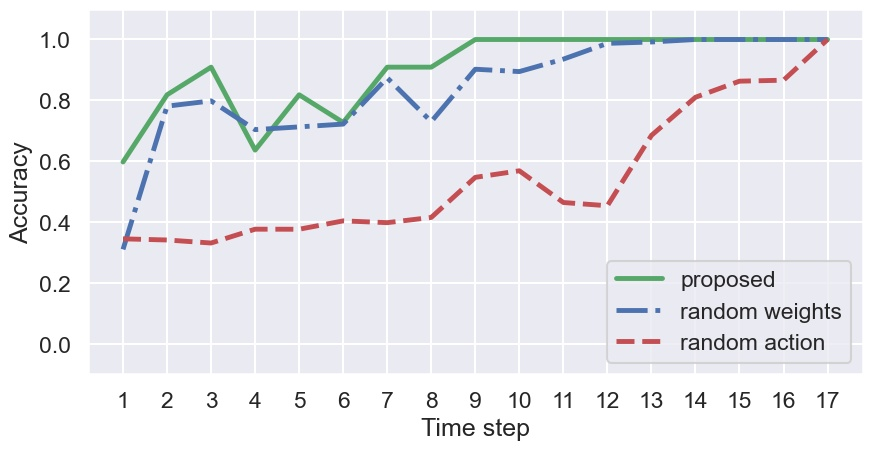
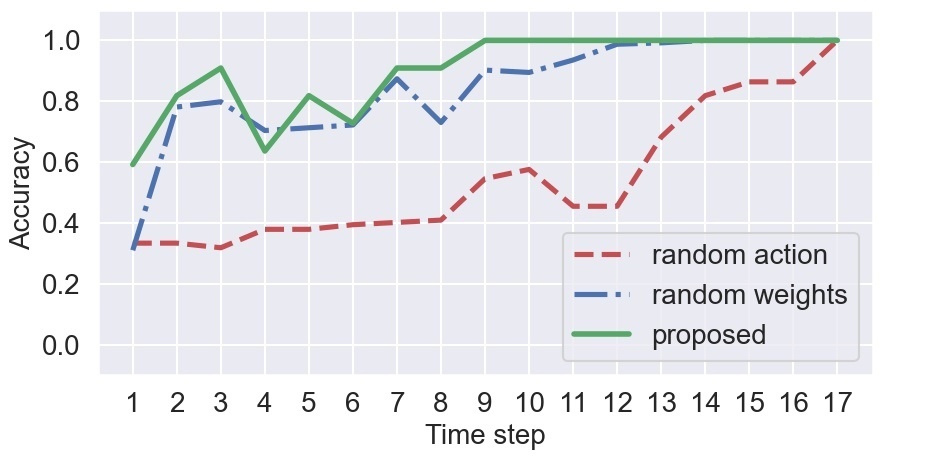
icra dump

diff --git a/src/experiments.py b/src/experiments.py
@@ -77,15 +77,15 @@ optim = O.ExpSga(lr=O.linear_decay(lr0=0.6))
 rank_features = False
 scale_weights = False
 
-visualize = False
+visualize = True
 
-run_proposed = False
-run_random_baseline = True
+run_proposed = True
+run_random_baseline = False
 
 match_scores, predict_scores, random_scores = [], [], []
 
 # loop over all users
-for i in range(len(canonical_demos)):
+for i in range(11):
 
     print("=======================")
     print("User:", i)
@@ -163,11 +163,11 @@ for i in range(len(canonical_demos)):
         # score for predicting the action based on transferred rewards based on abstract features
         qf_transfer, _, _ = value_iteration(X.states, X.actions, X.transition, transfer_rewards_abstract, X.terminal_idx)
         predict_sequence, predict_score = predict_trajectory(qf_transfer, X.states, complex_user_demo, X.transition,
-                                                             sensitivity=0.005, consider_options=True)
+                                                             sensitivity=0.0, consider_options=False)
         predict_scores.append(predict_score)
 
         if visualize:
-            visualize_rel_actions(X, complex_user_demo[0], i, "complex", predict_sequence)
+            visualize_rel_actions(X, complex_user_demo[0], i, "actual", predict_sequence)
 
     # -------------------------------- Training: Learn weights from complex demo ------------------------------------ #
 
@@ -186,29 +186,30 @@ for i in range(len(canonical_demos)):
         print("Assuming random weights ...")
         random_score = []
         for _ in range(100):
-            # score for selecting actions based on random weights
-            random_weights = np.random.rand(6)  # np.random.shuffle(canonical_weights_abstract)
-            random_rewards_abstract = complex_abstract_features.dot(random_weights)
-            qf_random, _, _ = value_iteration(X.states, X.actions, X.transition, random_rewards_abstract, X.terminal_idx)
-            predict_sequence, r_score = predict_trajectory(qf_random, X.states, complex_user_demo, X.transition,
-                                                           sensitivity=0.005, consider_options=True)
+            # # score for selecting actions based on random weights
+            # random_weights = np.random.rand(6)  # np.random.shuffle(canonical_weights_abstract)
+            # random_rewards_abstract = complex_abstract_features.dot(random_weights)
+            # qf_random, _, _ = value_iteration(X.states, X.actions, X.transition, random_rewards_abstract, X.terminal_idx)
+            # predict_sequence, r_score = predict_trajectory(qf_random, X.states, complex_user_demo, X.transition,
+            #                                                sensitivity=0.0, consider_options=False)
 
             # score for randomly selecting an action
-            # _, r_score = random_trajectory(X.states, complex_user_demo, X.transition)
+            predict_sequence, r_score = random_trajectory(X.states, complex_user_demo, X.transition)
 
             random_score.append(r_score)
 
         random_score = np.mean(random_score, axis=0)
         random_scores.append(random_score)
 
-    # print("\n")
-    # print("Complex task:")
-    # print("     demonstration -", complex_user_demo)
+    print("\n")
+    print("Complex task:")
+    print("   demonstration -", complex_user_demo)
+    print("     predictions -", predict_sequence)
 
 # -------------------------------------------------- Save results --------------------------------------------------- #
 if run_proposed:
-    np.savetxt("results_final/predict11_normalized_features_random_weights_options_s005.csv", predict_scores)
+    np.savetxt("results_final/predict11_normalized_features.csv", predict_scores)
 
 if run_random_baseline:
-    np.savetxt("results_final/random11_normalized_features_random_weights_new.csv", random_scores)
+    np.savetxt("results_final/random11_normalized_features_random_actions_new.csv", random_scores)
 

diff --git a/src/plot_figures.py b/src/plot_figures.py
@@ -6,8 +6,8 @@ from scipy import stats
 
 predict_scores = np.loadtxt("results_final/predict11_normalized_features.csv")
 random1_scores = np.loadtxt("results_final/random11_normalized_features_random_weights.csv")
-random2_scores = np.loadtxt("results_final/random11_normalized_features_random_actions.csv")
-uniform_scores = np.loadtxt("results_final/predict11_normalized_features_random_weights_options_s005.csv")
+random2_scores = np.loadtxt("results_final/random11_normalized_features_random_actions_new.csv")
+uniform_scores = np.loadtxt("results_final/random11_normalized_features_random_actions_new.csv")
 
 n_users, n_steps = np.shape(predict_scores)
 
@@ -30,18 +30,19 @@ steps = range(1, len(predict_accuracy)+1)
 # plotting
 sns.set(style="darkgrid", context="talk")
 plt.figure(figsize=(10, 5))
-plt.plot(steps, predict_accuracy, 'g', linewidth=3.5)
-plt.plot(steps, random1_accuracy, 'b-.', linewidth=3.5)
-plt.plot(steps, random2_accuracy, 'r--', linewidth=3.5)
-plt.plot(steps, uniform_accuracy, 'y:', linewidth=3.5)
+plt.plot(steps, random2_accuracy, 'r--', linewidth=3.7)
+plt.plot(steps, random1_accuracy, 'b-.', linewidth=3.7)
+plt.plot(steps, predict_accuracy, 'g', linewidth=4.0)
+# plt.plot(steps, uniform_accuracy, 'y:', linewidth=4)
 plt.ylim(-0.1, 1.1)
-plt.xticks(steps)
-plt.xlabel("Time step")
-plt.ylabel("Accuracy")
+plt.xticks(steps, fontsize=20)
+plt.yticks(fontsize=20)
+plt.xlabel("Time step", fontsize=20)
+plt.ylabel("Accuracy", fontsize=20)
 plt.gcf().subplots_adjust(bottom=0.15)
-plt.legend(["proposed", "random weights", "random action"], loc=4)
-plt.show()
-# plt.savefig("figures/results11.jpg", bbox_inches='tight')
+plt.legend(["random action", "random weights", "proposed"], loc=4, fontsize=20)
+# plt.show()
+plt.savefig("figures/results11.jpg", bbox_inches='tight')
 
 # plt.figure()
 # Y = list(predict_scores[:, 0]) + uniform_users

diff --git a/src/maxent_irl.py b/src/maxent_irl.py
@@ -268,7 +268,11 @@ def random_trajectory(states, demos, transition_function):
 
         options = list(set(candidates))
         predict_action = np.random.choice(options)
-        score.append(predict_action == take_action)
+        if take_action in options:
+            acc = 1/len(options)
+        else:
+            acc = 0.0
+        score.append(acc)
 
         generated_sequence.append(take_action)
         p, sp = transition_function(states[s], take_action)

diff --git a/src/assembly_tasks.py b/src/assembly_tasks.py
@@ -80,6 +80,7 @@ class AssemblyTask:
             c_part, c_tool = 0.0, 0.0
 
         feature_value = np.array([phase * e_p, phase * e_m, (1.0 - phase) * e_p, (1.0 - phase) * e_m, c_part, c_tool])
+        # feature_value = np.array([(1.0 - phase) * e_p, (1.0 - phase) * e_m, c_part, c_tool])
 
         # n_actions, n_features = np.array(action_features).shape
         # feature_value = np.zeros(n_features)

diff --git a/src/visualize.py b/src/visualize.py
@@ -17,7 +17,7 @@ def visualize_rel_actions(task, demo, idx, prefix, predictions=None):
     ep_vals = eps/max(eps)
     em_vals = ems/max(ems)
 
-    if prefix == "complex":
+    if prefix == "actual":
         fig_width = 12.75
     else:
         fig_width = 6
